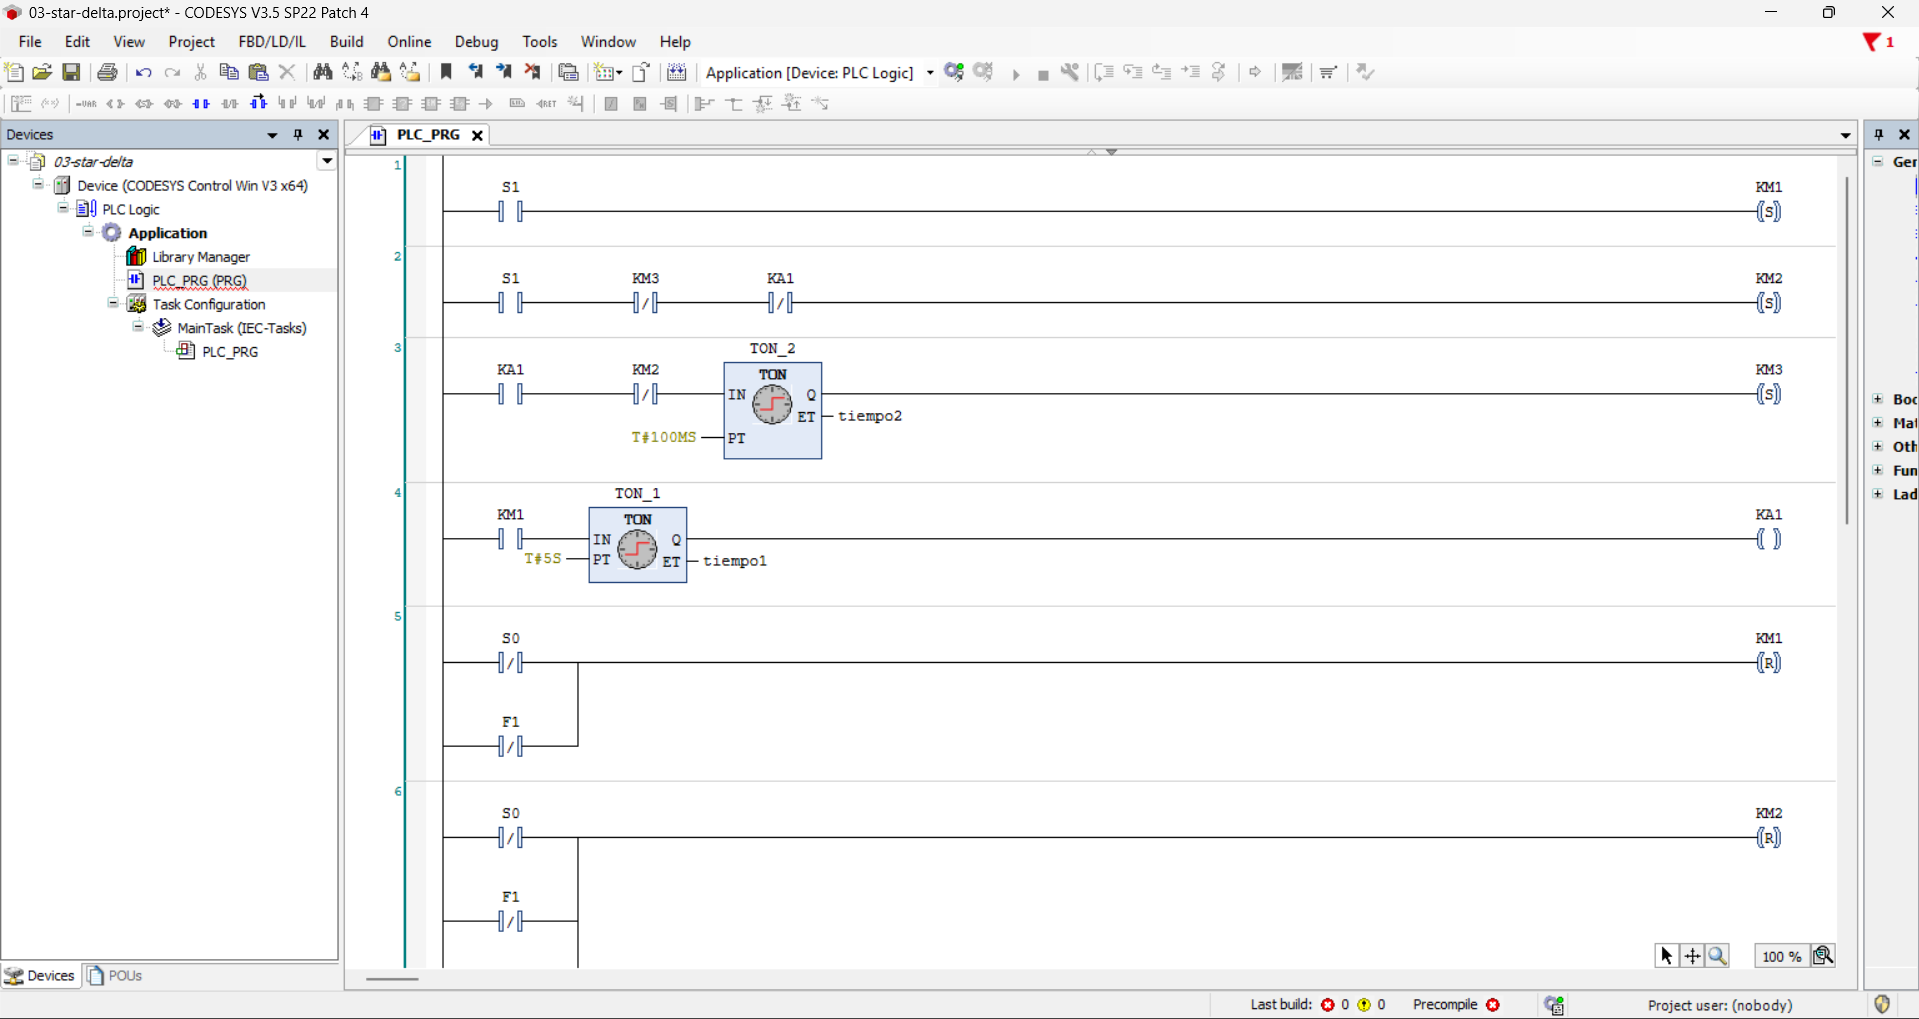
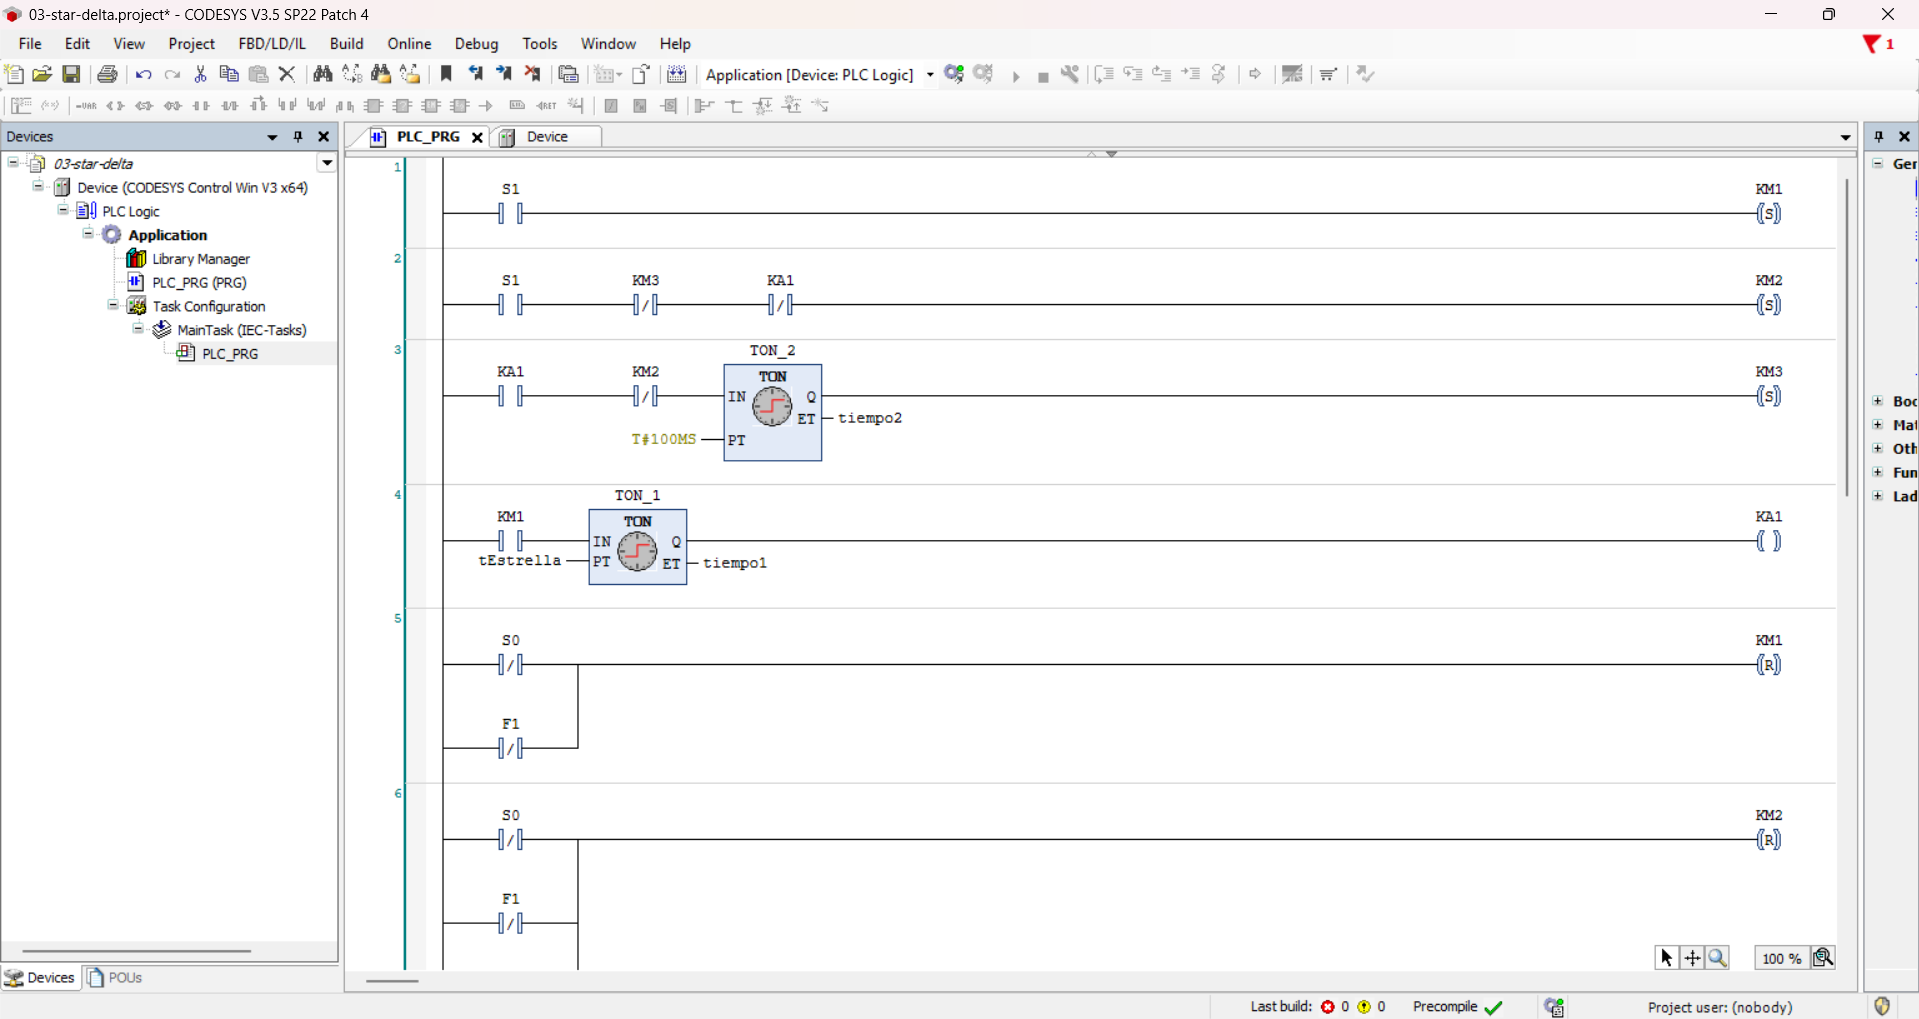
Add extension: adjustable star time and start counter

diff --git a/03-star-delta/README.md b/03-star-delta/README.md
@@ -15,9 +15,13 @@ A 15 kW air compressor in a workshop. To limit the starting current, the motor s
 | KM3 | Delta contactor | Output | Q0.2 (%QX0.2) |
 | H1 | Pilot light "running" (blinking in star, steady in delta) | Output | Q0.3 (%QX0.3) |
 | H2 | Pilot light "overload tripped" | Output | Q0.4 (%QX0.4) |
-| TON_1 → KA1 | Star time (5 s), timed from KM1 | Internal | – |
+| S5 | Maintenance reset push button | Input, NO | I0.3 (%IX0.3) |
+| H3 | Pilot light "service due" | Output | Q0.5 (%QX0.5) |
+| TON_1 → KA1 | Star time (`tEstrella`, default 5 s), timed from KM1 | Internal | – |
 | TON_2 | 100 ms pause between star and delta | Internal | – |
 | TON_3, TON_4 → KA2, KA3 | Blinking oscillator for H1 (1 s / 1 s) | Internal | – |
+| tEstrella | Star time parameter: `TIME := T#5S` | Internal | – |
+| CTU_0 → nArranques | Start counter (CV, `WORD`), preset 50 | Internal | – |
 
 ## How it works
 - **S1** starts the motor in star: **KM1 + KM2** on. Contactors are latched with **SET/RESET coils**.
@@ -28,6 +32,13 @@ A 15 kW air compressor in a workshop. To limit the starting current, the motor s
 - **Key design decision:** the star timer (TON_1) is driven by **KM1**, not by KM2. If it were driven by KM2, switching KM2 off at the end of the star phase would reset the timer and KM3 would never start. KM1 stays on during the whole start, so the sequence keeps going.
 - **S1 held down:** the SET of KM2 also needs `/KA1`. Without it, if the operator keeps S1 pressed for more than 5 s, KM2 is set again in every scan, the 100 ms timer never sees KM2 off and delta never starts.
 - Network order: SETs first, then all RESETs, so stop and overload always have priority.
+
+### Extension
+- **Adjustable star time:** the PT of TON_1 reads the variable `tEstrella : TIME := T#5S;` instead of a fixed `T#5S`. The star time can be changed online (or from an HMI) without editing or downloading the program.
+- **Start counter for maintenance:** a CTU counts every rising edge of **KM1** (one start = one KM1 activation). Counting KM1 instead of S1 means extra presses while running or with the overload tripped are not counted. After **50 starts**, **H3** "service due" lights up and stays on until the maintenance button **S5** resets the counter.
+- Why starts and not hours: every start is the moment of highest wear (inrush current, arcing in the contacts, mechanical stress).
+- **Design choice:** H3 only warns, it does not block the compressor. Preventive maintenance is a decision for a person, not a reason to stop the workshop. Possible improvement: warn at 50 starts and block new starts at 55 if nobody has done the service (`S1 · /Block → (S) KM1`).
+- In a real PLC the counter should be declared in `VAR RETAIN` so the count is not lost after a power cut.
 
 ## Wiring
 - **Power circuit:** Q1 → KM1 → F1 → U1-V1-W1. KM3 connects U1-W2, V1-U2, W1-V2 (delta). KM2 joins U2-V2-W2 (star point).
@@ -57,6 +68,12 @@ A 15 kW air compressor in a workshop. To limit the starting current, the motor s
 ### Overload tripped (F1)
 ![F1](screenshot-f1.png)
 
+### Star time changed online (`tEstrella` = 3 s)
+![Star time](screenshot-star-time.png)
+
+### Start counter (PV temporarily set to 3 for testing, H3 on)
+![Counter](screenshot-counter.png)
+
 ## Test table
 
 | # | Action | Expected result | OK |
@@ -72,6 +89,12 @@ A 15 kW air compressor in a workshop. To limit the starting current, the motor s
 | 8 | F1 → FALSE while running | Everything off, H2 on | |
 | 9 | F1 still FALSE, S1 pressed | Nothing starts | |
 | 10 | Any test | KM2 and KM3 never on at the same time | |
+| 11 | `tEstrella` changed to T#3S online | Star phase lasts 3 s | |
+| 12 | Several starts | `nArranques` increases by 1 per start | |
+| 13 | S1 pressed while running | `nArranques` does not change | |
+| 14 | Counter reaches PV | H3 on, compressor keeps working | |
+| 15 | S5 pressed | Counter back to 0, H3 off | |
 
 ## Versions
 - v1 – basic star-delta start with SET/RESET, 100 ms pause and interlocking (software + hardware)
+- v2 – extension: adjustable star time (`tEstrella`) and start counter with service light (CTU)
